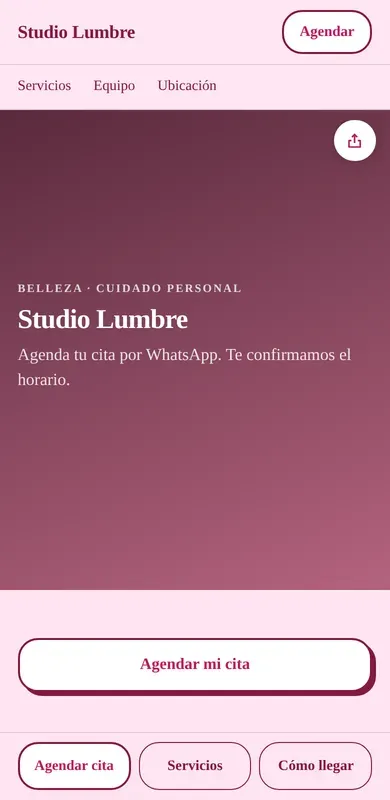
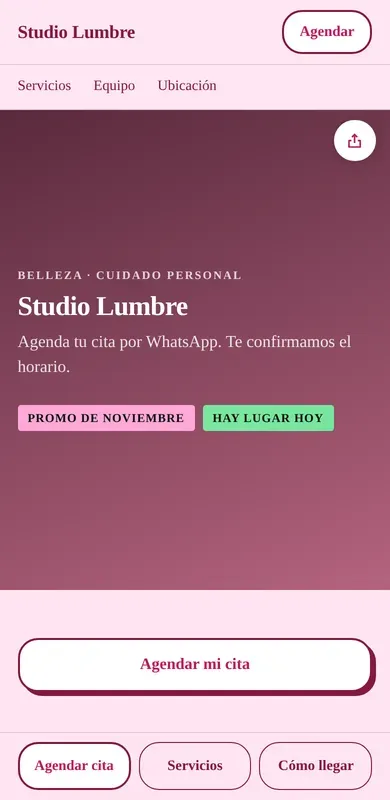
sitio nuevo, bloque 7: ejemplos con etiquetas de marcatextos (#617)
Bloque nuevo «Etiquetas» (rosa = novedad o promoción, verde = disponible, azul = información; texto en tinta) y las
etiquetas del diseño en la portada de los 6 sitios de ejemplo. Solo se siembran en los ejemplos (example: true): en
el sitio de una persona serían promociones inventadas. Vistas de los ejemplos del home regeneradas. Versión de estáticos 46.
Para verlas en producción hay que correr «npm run ejemplos -- --rehacer» (rehace solo las 6 ligas de la cuenta interna).

Claude-Session: https://claude.ai/code/session_01HtSBGwTxU9ah8A9tNqxoSw

Changed region(s): [[0.0308, 0.3125, 0.8615, 0.5625], [0.5846, 0.4062, 0.8923, 0.4688]]

diff --git a/src/modules/minisitio/giros.ts b/src/modules/minisitio/giros.ts
@@ -50,6 +50,11 @@ type Ctx = {
   page: (slug: string, title: string, desc: string) => number
 }
 
+/** Etiquetas con marcatextos de la portada (design, bloque 7). Solo en los sitios de ejemplo: en el sitio de una persona serían promociones inventadas. */
+function etiquetas(c: Ctx, sectionId: number, items: [string, 'rosa' | 'verde' | 'azul'][]): void {
+  if (c.v.example) c.blk('tags', { items: items.map(([label, tone]) => ({ label, tone })) }, sectionId)
+}
+
 /** Portada: sección con degradado, titular del negocio y el botón principal */
 function portada(c: Ctx, sectionId: number, antetitulo: string, subtitulo: string): void {
   updateSection(c.db, sectionId, readSectionData({ ancla: 'inicio', antetitulo, titulo: c.v.name, subtitulo, fondo: 'degradado', color: c.meta.c1, color2: c.meta.c2, angulo: 160, alto: 'media', ancho: 'normal' }), true, c.now)
@@ -58,6 +63,7 @@ function portada(c: Ctx, sectionId: number, antetitulo: string, subtitulo: strin
 const BUILDERS: Record<Giro, (c: Ctx, home: number, first: number) => { nav: SiteConfig['cabecera']['nav_manual']; barra: Action[]; cta: Action; servicios: string }> = {
   restaurante(c, home, first) {
     portada(c, first, 'Cocina de casa', 'Pide por WhatsApp o reserva tu mesa. Sin vueltas.')
+    etiquetas(c, first, [['Nuevo: costillas BBQ', 'rosa'], ['Abierto ahora', 'verde']])
     const a = c.mk(home, { ancla: 'acciones', ancho: 'angosto' })
     c.blk('action_panel', {
       disposicion: 'principal',
@@ -96,6 +102,7 @@ const BUILDERS: Record<Giro, (c: Ctx, home: number, first: number) => { nav: Sit
 
   belleza(c, home, first) {
     portada(c, first, 'Belleza · cuidado personal', 'Agenda tu cita por WhatsApp. Te confirmamos el horario.')
+    etiquetas(c, first, [['Promo de noviembre', 'rosa'], ['Hay lugar hoy', 'verde']])
     const cta = c.mk(home, { ancho: 'angosto' })
     c.blk('wa_request', { preset: 'cita', boton: 'Agendar mi cita', guardar_copia: true }, cta)
     const s = c.mk(home, { ancla: 'servicios', antetitulo: 'Lo que hacemos', titulo: 'Servicios y precios', ancho: 'normal' })
@@ -122,6 +129,7 @@ const BUILDERS: Record<Giro, (c: Ctx, home: number, first: number) => { nav: Sit
 
   salud(c, home, first) {
     portada(c, first, 'Consulta médica', 'Valoración personalizada y acompañamiento en cada paso.')
+    etiquetas(c, first, [['Agenda abierta esta semana', 'verde'], ['Dermatología', 'azul']])
     const t = c.mk(home, { ancho: 'normal' })
     c.blk('wa_request', { preset: 'cita', boton: 'Agendar valoración', guardar_copia: true }, t)
     c.blk('trust_line', { items: [{ texto: 'Cédula profesional verificable' }, { texto: 'Valoración sin compromiso' }, { texto: 'Atención con cita' }] }, t)
@@ -159,6 +167,7 @@ const BUILDERS: Record<Giro, (c: Ctx, home: number, first: number) => { nav: Sit
 
   inmobiliaria(c, home, first) {
     portada(c, first, 'Bienes raíces', 'Compra, vende o renta con acompañamiento de principio a fin.')
+    etiquetas(c, first, [['3 propiedades disponibles', 'verde'], ['Venta', 'azul'], ['Renta', 'azul']])
     const l = c.mk(home, { ancla: 'propiedades', antetitulo: 'Disponibles', titulo: 'Propiedades', ancho: 'ancho' })
     c.blk('listings', {
       titulo: '',
@@ -185,6 +194,7 @@ const BUILDERS: Record<Giro, (c: Ctx, home: number, first: number) => { nav: Sit
 
   fitness(c, home, first) {
     portada(c, first, 'Entrenamiento', 'Clases para todos los niveles. Tu primera clase es de prueba.')
+    etiquetas(c, first, [['Reto de noviembre', 'rosa'], ['3 lugares hoy', 'verde']])
     const p = c.mk(home, { ancla: 'programas', antetitulo: 'Elige tu camino', titulo: 'Programas', ancho: 'ancho' })
     c.blk('programs', {
       titulo: '',
@@ -211,6 +221,7 @@ const BUILDERS: Record<Giro, (c: Ctx, home: number, first: number) => { nav: Sit
 
   servicios(c, home, first) {
     portada(c, first, 'Servicios profesionales', 'Cuéntanos qué necesitas y te cotizamos sin compromiso.')
+    etiquetas(c, first, [['Respondemos hoy', 'verde'], ['Todo en línea', 'azul']])
     const q = c.mk(home, { ancho: 'angosto' })
     c.blk('wa_request', { preset: 'cotizacion', boton: 'Pedir cotización', guardar_copia: true }, q)
     const s = c.mk(home, { ancla: 'servicios', antetitulo: 'Qué hacemos', titulo: 'Servicios', ancho: 'normal' })

diff --git a/tests/giros.test.ts b/tests/giros.test.ts
@@ -73,3 +73,25 @@ describe('plantillas por giro (asistente «giro primero»)', () => {
     expect((await v.get('/studiox')).body).toContain('soc-instagram')
   })
 })
+
+describe('etiquetas con marcatextos (bloque 7)', () => {
+  it('el sitio de ejemplo las lleva (rosa, verde o azul) y el de una persona no: serían promociones inventadas', async () => {
+    const t = await makeApp()
+    const v = await signup(t)
+    await v.get('/panel/start')
+    await v.postMultipart('/panel/start', { tpl: 'giro:restaurante', alias: 'rest', name: 'Mi Negocio', whatsapp: '55 1234 5678', address: 'Calle Falsa 123' })
+    const propio = (await v.get('/rest')).body
+    expect(propio).not.toContain('class="tgs"')
+    expect(propio).not.toContain('Nuevo: costillas BBQ')
+    const { createLink } = await import('../src/modules/links/repo.ts')
+    const { defaultBioData } = await import('../src/modules/bio/design.ts')
+    const { applyGiro } = await import('../src/modules/minisitio/giros.ts')
+    const owner = t.deps.db.prepare('SELECT id FROM users LIMIT 1').pluck().get() as number
+    const l = createLink(t.deps.db, owner, { project_id: null, alias: 'ejem', kind: 'bio', title: 'Fonda La Ceiba', target_url: null, redirect_code: 302, data: { ...defaultBioData('Fonda La Ceiba', '', 'papel'), noindex: true }, is_enabled: true, starts_at: null, ends_at: null, expired_url: null, click_limit: null, limit_url: null, is_sensitive: false, utm: {}, forward_query: false, public_stats: false }, Date.now())
+    applyGiro(t.deps.db, l.id, 'restaurante', { name: 'Fonda La Ceiba', whatsapp: '', address: 'Calle de los Ejemplos 123', example: true }, Date.now())
+    const ejemplo = (await v.get('/ejem')).body
+    expect(ejemplo).toContain('class="tgs"')
+    expect(ejemplo).toContain('<span class="tg tg-rosa">Nuevo: costillas BBQ</span>')
+    expect(ejemplo).toContain('<span class="tg tg-verde">Abierto ahora</span>')
+  })
+})

diff --git a/src/modules/bio/blocks-v2.ts b/src/modules/bio/blocks-v2.ts
@@ -81,6 +81,16 @@ export const V2_BLOCKS: BlockDef[] = [
     summary: (b) => rows(b.data.items).map((x) => s(x.label)).join(' · ').slice(0, 80),
   },
   {
+    type: 'tags',
+    group: 'basic',
+    fields: [
+      { name: 'items', kind: 'rows', label: 'bio.f.tags_items', maxRows: 8, minRows: 1, columns: [{ name: 'label', label: 'bio.f.label', type: 'text', max: 40, required: true }, { name: 'tone', label: 'bio.f.tag_tone', type: 'select', options: ['rosa', 'verde', 'azul', 'lima'] }] },
+    ],
+    // etiquetas con marcatextos (design, bloque 7): rosa = novedad o promoción, verde = disponible o incluido, azul = información o categoría. Texto siempre en tinta.
+    render: (_rc, b) => html`<ul class="tgs">${rows(b.data.items).map((x) => html`<li><span class="tg tg-${['rosa', 'verde', 'azul'].includes(s(x.tone)) ? s(x.tone) : 'lima'}">${s(x.label)}</span></li>`)}</ul>`,
+    summary: (b) => rows(b.data.items).map((x) => s(x.label)).join(' · ').slice(0, 80),
+  },
+  {
     type: 'steps',
     group: 'basic',
     fields: [

diff --git a/public/css/bio.css b/public/css/bio.css
@@ -320,3 +320,8 @@ mark.hl { background: var(--btn-bg); color: var(--btn-text); padding: 0 .18em; b
 .mq-sep { font-style: normal; opacity: .8; } .mq-x { width: .9em; height: .9em; flex: none; }
 .blk-marquee.has-bg { margin-inline: -1.6rem; }
 .has-bg .marquee { background: var(--b-bg); color: var(--b-text, inherit); mask-image: none; -webkit-mask-image: none; padding: .85rem 0; font-size: 1.1em; }
+
+/* etiquetas con marcatextos (bloque «tags»): rosa novedad/promoción, verde disponible/incluido, azul información; el texto siempre en tinta */
+.tgs { display: flex; gap: 8px; flex-wrap: wrap; list-style: none; margin: 0; padding: 0; }
+.tg { display: inline-flex; align-items: center; font: 600 12px/1 var(--font, system-ui); letter-spacing: .06em; text-transform: uppercase; padding: 7px 10px; border-radius: 3px; color: #10120d; background: #d6f23a; }
+.tg-rosa { background: #ffa8d8; } .tg-verde { background: #79e6a0; } .tg-azul { background: #8fd0ff; }

diff --git a/src/views/layout.ts b/src/views/layout.ts
@@ -5,7 +5,7 @@ import { csrfField, flashBox } from './ui.ts'
 import { icon } from './icons.ts'
 import { brandHead, wordmark } from './brand.ts'
 
-export const ASSET_VERSION = '45'
+export const ASSET_VERSION = '46'
 
 function head(ctx: Ctx, title: string, extra: HtmlValue = ''): SafeHtml {
   return html`<head>
